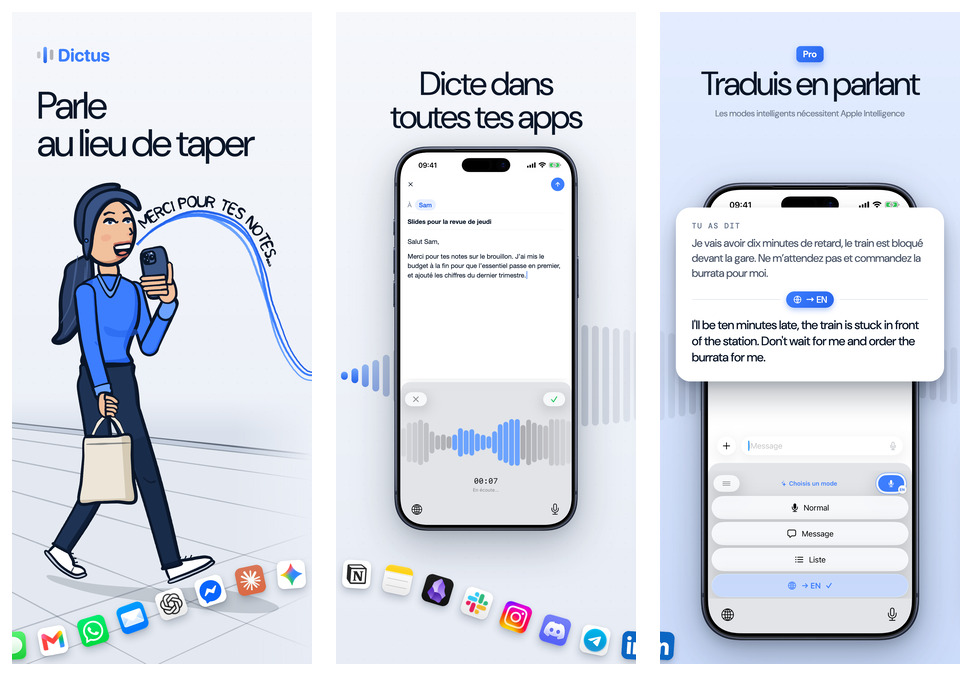
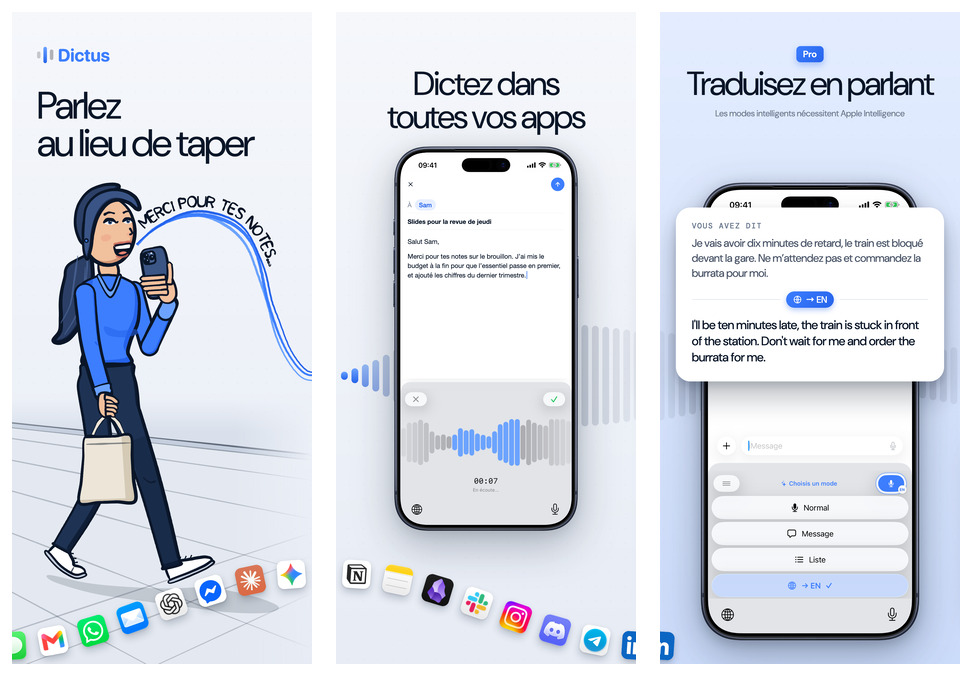
Return the fr-FR copy to vous (refs #643)
Pierre's final decision of 2026-10-06: French says vous, as the app's
~100 French strings and Apple's French copy do. Headlines, small lines,
the before label, promotional text and description go back to the
approved vous wording. Kept from the last round: the English name and
the keywords with clavier, vocal and ia (100/100 bytes). Slide 3's fan
header still reads Choisis un mode until #662. Re-exported.

diff --git a/assets/appstore/strings/fr-FR.js b/assets/appstore/strings/fr-FR.js
@@ -6,9 +6,9 @@
  * a non-breaking space ( ) before ? ! : ; and inside « », typographic
  * apostrophes (’), no em dashes.
  *
- * Register: "tu", decided by Pierre on 2026-10-06. The keyboard already says
- * "tu" ("Choisis un mode", visible in the slide 3 capture); DictusApp still
- * says "vous" and follows in #662.
+ * Register: "vous" (Pierre, 2026-10-06, final): DictusApp already says it and so
+ * does Apple's French copy. The keyboard still says "tu" ("Choisis un mode",
+ * visible in the slide 3 capture) until #662; slide 3 is recaptured then.
  *
  * The email (slide 2) is the user's own message to a colleague, so it says
  * "tu" to Sam; its first words are the hero's lettering ("MERCI POUR TES
@@ -33,11 +33,11 @@ window.DICTUS_STRINGS = {
   heroArt: { "v15-B": "art/v15-B/hero-fr-FR.png" },
   slides: {
     hero: {
-      // "au lieu de taper" held together, so the break falls after "Parle" (as "Speak instead / of typing")
-      headline: "Parle au\u00a0lieu\u00a0de\u00a0taper",
+      // "au lieu de taper" held together, so the break falls after "Parlez" (as "Speak instead / of typing")
+      headline: "Parlez au\u00a0lieu\u00a0de\u00a0taper",
     },
     dictate: {
-      headline: "Dicte dans toutes tes apps",
+      headline: "Dictez dans toutes vos apps",
       emailToLabel: "À",
       emailTo: "Sam",
       emailSubject: "Slides pour la revue de jeudi",
@@ -48,9 +48,9 @@ window.DICTUS_STRINGS = {
     },
     smartModes: {
       footnote: "Les modes intelligents nécessitent Apple Intelligence",
-      beforeLabel: "Tu as dit",
+      beforeLabel: "Vous avez dit",
       translate: {
-        headline: "Traduis en parlant",
+        headline: "Traduisez en parlant",
         // fr-late-e, verbatim.
         before: "Je vais avoir dix minutes de retard, le train est bloqué devant la gare. Ne m’attendez pas et commandez la burrata pour moi.",
         // The fan's own label for the mode (SmartModeDisplayName.swift).
@@ -62,7 +62,7 @@ window.DICTUS_STRINGS = {
       },
     },
     voiceNotes: {
-      headline: "Lis tes vocaux dans le clavier",
+      headline: "Lisez vos vocaux dans le clavier",
       bubbleDuration: "0:24",
       contactName: "Emma",
       chatDay: "Aujourd’hui",
@@ -70,7 +70,7 @@ window.DICTUS_STRINGS = {
       chatPlaceholder: "Message",
     },
     keyboard: {
-      headline: "Un vrai clavier dans ta langue",
+      headline: "Un vrai clavier dans votre langue",
       // iOS names keyboards in the interface language (Réglages › Claviers: "Anglais (R.-U.)").
       labels: {
         fr: "Français · AZERTY",
@@ -79,12 +79,12 @@ window.DICTUS_STRINGS = {
       },
     },
     private: {
-      headline: "Ta voix reste sur ton iPhone",
-      footnote: "Les modèles sont sur ton iPhone. Sans compte, open source.",
+      headline: "Votre voix reste sur votre iPhone",
+      footnote: "Les modèles sont sur votre iPhone. Sans compte, open source.",
     },
     languages: {
       // 40+: see en-GB.js (Whisper good + fair tiers, plus Maltese with Parakeet).
-      headline: "Dicte dans plus de 40 langues",
+      headline: "Dictez dans plus de 40 langues",
       footnote: "Près de 100 avec Whisper. La qualité varie selon la langue.",
       // Unchanged from en-GB: each greeting is in its own language.
       greetings: [

diff --git a/assets/appstore/listing/fr-FR.md b/assets/appstore/listing/fr-FR.md
@@ -2,7 +2,7 @@
 
 Draft for issue #643, the French wave of the approved English set (`export/fr-FR/v15-B/`, slides in the same order). It mirrors `listing/en-GB.md`; the claims and their sources are the same, re-read below. **Nothing here is in App Store Connect.**
 
-Register: **tu**, decided by Pierre on 2026-10-06 (the keyboard already says "tu"; DictusApp follows in #662). French typography: a non-breaking space (U+00A0) before `: ; ! ?` and inside « », typographic apostrophes, no em dashes.
+Register: **vous** (Pierre, 2026-10-06, final): DictusApp already says it, and so does Apple's French copy. The keyboard's own strings still say "tu" until #662. French typography: a non-breaking space (U+00A0) before `: ; ! ?` and inside « », typographic apostrophes, no em dashes.
 
 Limits checked with `python3` (characters; keywords counted in UTF-8 bytes, where an accented letter weighs 2): see the table at the end.
 
@@ -22,7 +22,7 @@ The English subtitle, `Private dictation, voice notes`, for the same reasons: it
 
 For launch week:
 
-> Nouveau dans la 2.0 : Dictus Pro. Traduis en parlant et lis les vocaux de tes discussions dans ton clavier. Gratuit 14 jours sur les iPhone avec Apple Intelligence.
+> Nouveau dans la 2.0 : Dictus Pro. Traduisez en parlant et lisez les vocaux de vos discussions dans votre clavier. Gratuit 14 jours sur les iPhone avec Apple Intelligence.
 
 "Sur les iPhone avec Apple Intelligence" is load-bearing, as in English: the trial never starts on a device that cannot run Smart Modes (#593 decision 2).
 
@@ -43,46 +43,46 @@ For launch week:
 Follows the seven V15-B slides, in order and with their headlines.
 
 ```
-Parle au lieu de taper. Dictus est un clavier qui écrit ce que tu dis : touche le micro, parle, et tes mots s’affichent dans n’importe quelle app. La reconnaissance vocale tourne sur ton iPhone, même sans connexion.
+Parlez au lieu de taper. Dictus est un clavier qui écrit ce que vous dites : touchez le micro, parlez, et vos mots s’affichent dans n’importe quelle app. La reconnaissance vocale tourne sur votre iPhone, même sans connexion.
 
-DICTE DANS TOUTES TES APPS
+DICTEZ DANS TOUTES VOS APPS
 
-Messages, e-mails, notes, rappels : partout où tu peux écrire, Dictus est à portée de doigt. Parle naturellement, et le texte arrive là où se trouve ton curseur.
+Messages, e-mails, notes, rappels : partout où vous pouvez écrire, Dictus est à portée de doigt. Parlez naturellement, et le texte arrive là où se trouve votre curseur.
 
-TRADUIS EN PARLANT (PRO)
+TRADUISEZ EN PARLANT (PRO)
 
-Les modes intelligents transforment ta dictée en texte prêt à envoyer, avant même qu’il soit tapé. Maintiens le micro, choisis un mode, et parle :
+Les modes intelligents transforment votre dictée en texte prêt à envoyer, avant même qu’il soit tapé. Maintenez le micro, choisissez un mode, et parlez :
 - Traduction : vers le français, l’anglais, l’allemand ou l’espagnol
-- Message : le message court que tu aurais tapé
-- Liste : tes idées sous forme de puces
+- Message : le message court que vous auriez tapé
+- Liste : vos idées sous forme de puces
 - Structuré : une longue dictée en paragraphes clairs
-- Résumé : l’essentiel de ce que tu as dit
+- Résumé : l’essentiel de ce que vous avez dit
 
-Les modes intelligents tournent sur ton iPhone avec Apple Intelligence (iPhone 15 Pro ou plus récent, iOS 26 ou plus récent). Tes mots ne partent vers aucun serveur.
+Les modes intelligents tournent sur votre iPhone avec Apple Intelligence (iPhone 15 Pro ou plus récent, iOS 26 ou plus récent). Vos mots ne partent vers aucun serveur.
 
-LIS TES VOCAUX DANS LE CLAVIER (PRO)
+LISEZ VOS VOCAUX DANS LE CLAVIER (PRO)
 
-Un message vocal que tu ne peux pas écouter tout de suite ? Partage-le vers Dictus depuis ton app de messagerie. Il est transcrit sur ton iPhone, et la transcription t’attend dans le clavier quand tu reviens dans la conversation. Lis-la, puis insère-la d’un geste si tu veux la citer.
+Un message vocal que vous ne pouvez pas écouter tout de suite ? Partagez-le vers Dictus depuis votre app de messagerie. Il est transcrit sur votre iPhone, et la transcription vous attend dans le clavier quand vous revenez dans la conversation. Lisez-la, puis insérez-la d’un geste si vous voulez la citer.
 
-UN VRAI CLAVIER DANS TA LANGUE
+UN VRAI CLAVIER DANS VOTRE LANGUE
 
-Dictus est un clavier complet, pas seulement un bouton micro. Dispositions AZERTY, QWERTY et QWERTZ, avec correction automatique et suggestions en français, en anglais, en allemand et en espagnol. Tape quand tu veux, parle quand tu préfères.
+Dictus est un clavier complet, pas seulement un bouton micro. Dispositions AZERTY, QWERTY et QWERTZ, avec correction automatique et suggestions en français, en anglais, en allemand et en espagnol. Tapez quand vous voulez, parlez quand vous préférez.
 
-TA VOIX RESTE SUR TON IPHONE
+VOTRE VOIX RESTE SUR VOTRE IPHONE
 
-La reconnaissance vocale se fait sur l’appareil. Pas de compte, pas de pistage, pas de statistiques d’usage. Dicte en avion, dans le métro, partout. Les modèles sont sur ton iPhone : télécharges-en un une fois, puis utilise-le hors ligne, du plus compact et rapide au plus précis.
+La reconnaissance vocale se fait sur l’appareil. Pas de compte, pas de pistage, pas de statistiques d’usage. Dictez en avion, dans le métro, partout. Les modèles sont sur votre iPhone : téléchargez-en un une fois, puis utilisez-le hors ligne, du plus compact et rapide au plus précis.
 
 Dictus est open source (licence MIT). Chacun peut lire le code et vérifier ces engagements de confidentialité : github.com/getdictus/dictus-ios
 
-DICTE DANS PLUS DE 40 LANGUES
+DICTEZ DANS PLUS DE 40 LANGUES
 
-La dictée fonctionne dans plus de 40 langues avec une qualité bonne ou correcte, et dans près de 100 avec les modèles Whisper, où la qualité varie selon la langue. Parakeet, le modèle par défaut, transcrit 25 langues européennes et reconnaît celle que tu parles. Chaque modèle indique les langues qu’il gère bien avant que tu le télécharges.
+La dictée fonctionne dans plus de 40 langues avec une qualité bonne ou correcte, et dans près de 100 avec les modèles Whisper, où la qualité varie selon la langue. Parakeet, le modèle par défaut, transcrit 25 langues européennes et reconnaît celle que vous parlez. Chaque modèle indique les langues qu’il gère bien avant que vous le téléchargiez.
 
 DICTUS PRO
 
-Pro ajoute les modes intelligents, les messages vocaux dans le clavier, l’historique de tes dictées et ton propre vocabulaire pour les noms et les termes techniques.
+Pro ajoute les modes intelligents, les messages vocaux dans le clavier, l’historique de vos dictées et votre propre vocabulaire pour les noms et les termes techniques.
 
-Essaie Pro gratuitement pendant 14 jours. Il n’y a rien à souscrire et rien ne se renouvelle : à la fin des 14 jours, Dictus repasse en version gratuite et te demande si tu veux garder Pro. Ton historique et ton vocabulaire sont conservés. L’essai est proposé sur les iPhone capables de faire tourner les modes intelligents. La dictée et le clavier restent gratuits.
+Essayez Pro gratuitement pendant 14 jours. Il n’y a rien à souscrire et rien ne se renouvelle : à la fin des 14 jours, Dictus repasse en version gratuite et vous demande si vous voulez garder Pro. Votre historique et votre vocabulaire sont conservés. L’essai est proposé sur les iPhone capables de faire tourner les modes intelligents. La dictée et le clavier restent gratuits.
 
 Dictus ne collecte aucune donnée. Politique de confidentialité : getdictus.com/privacy
 ```
@@ -110,6 +110,6 @@ Measured with `python3` on this file's fenced and quoted texts (`len()` for char
 |---|---|---|
 | Name | 30 | 25 |
 | Subtitle | 30 | 30 |
-| Promotional text | 170 | 164 |
+| Promotional text | 170 | 170 |
 | Keywords (bytes) | 100 | 100 |
-| Description | 4000 | 3066 |
+| Description | 4000 | 3162 |
